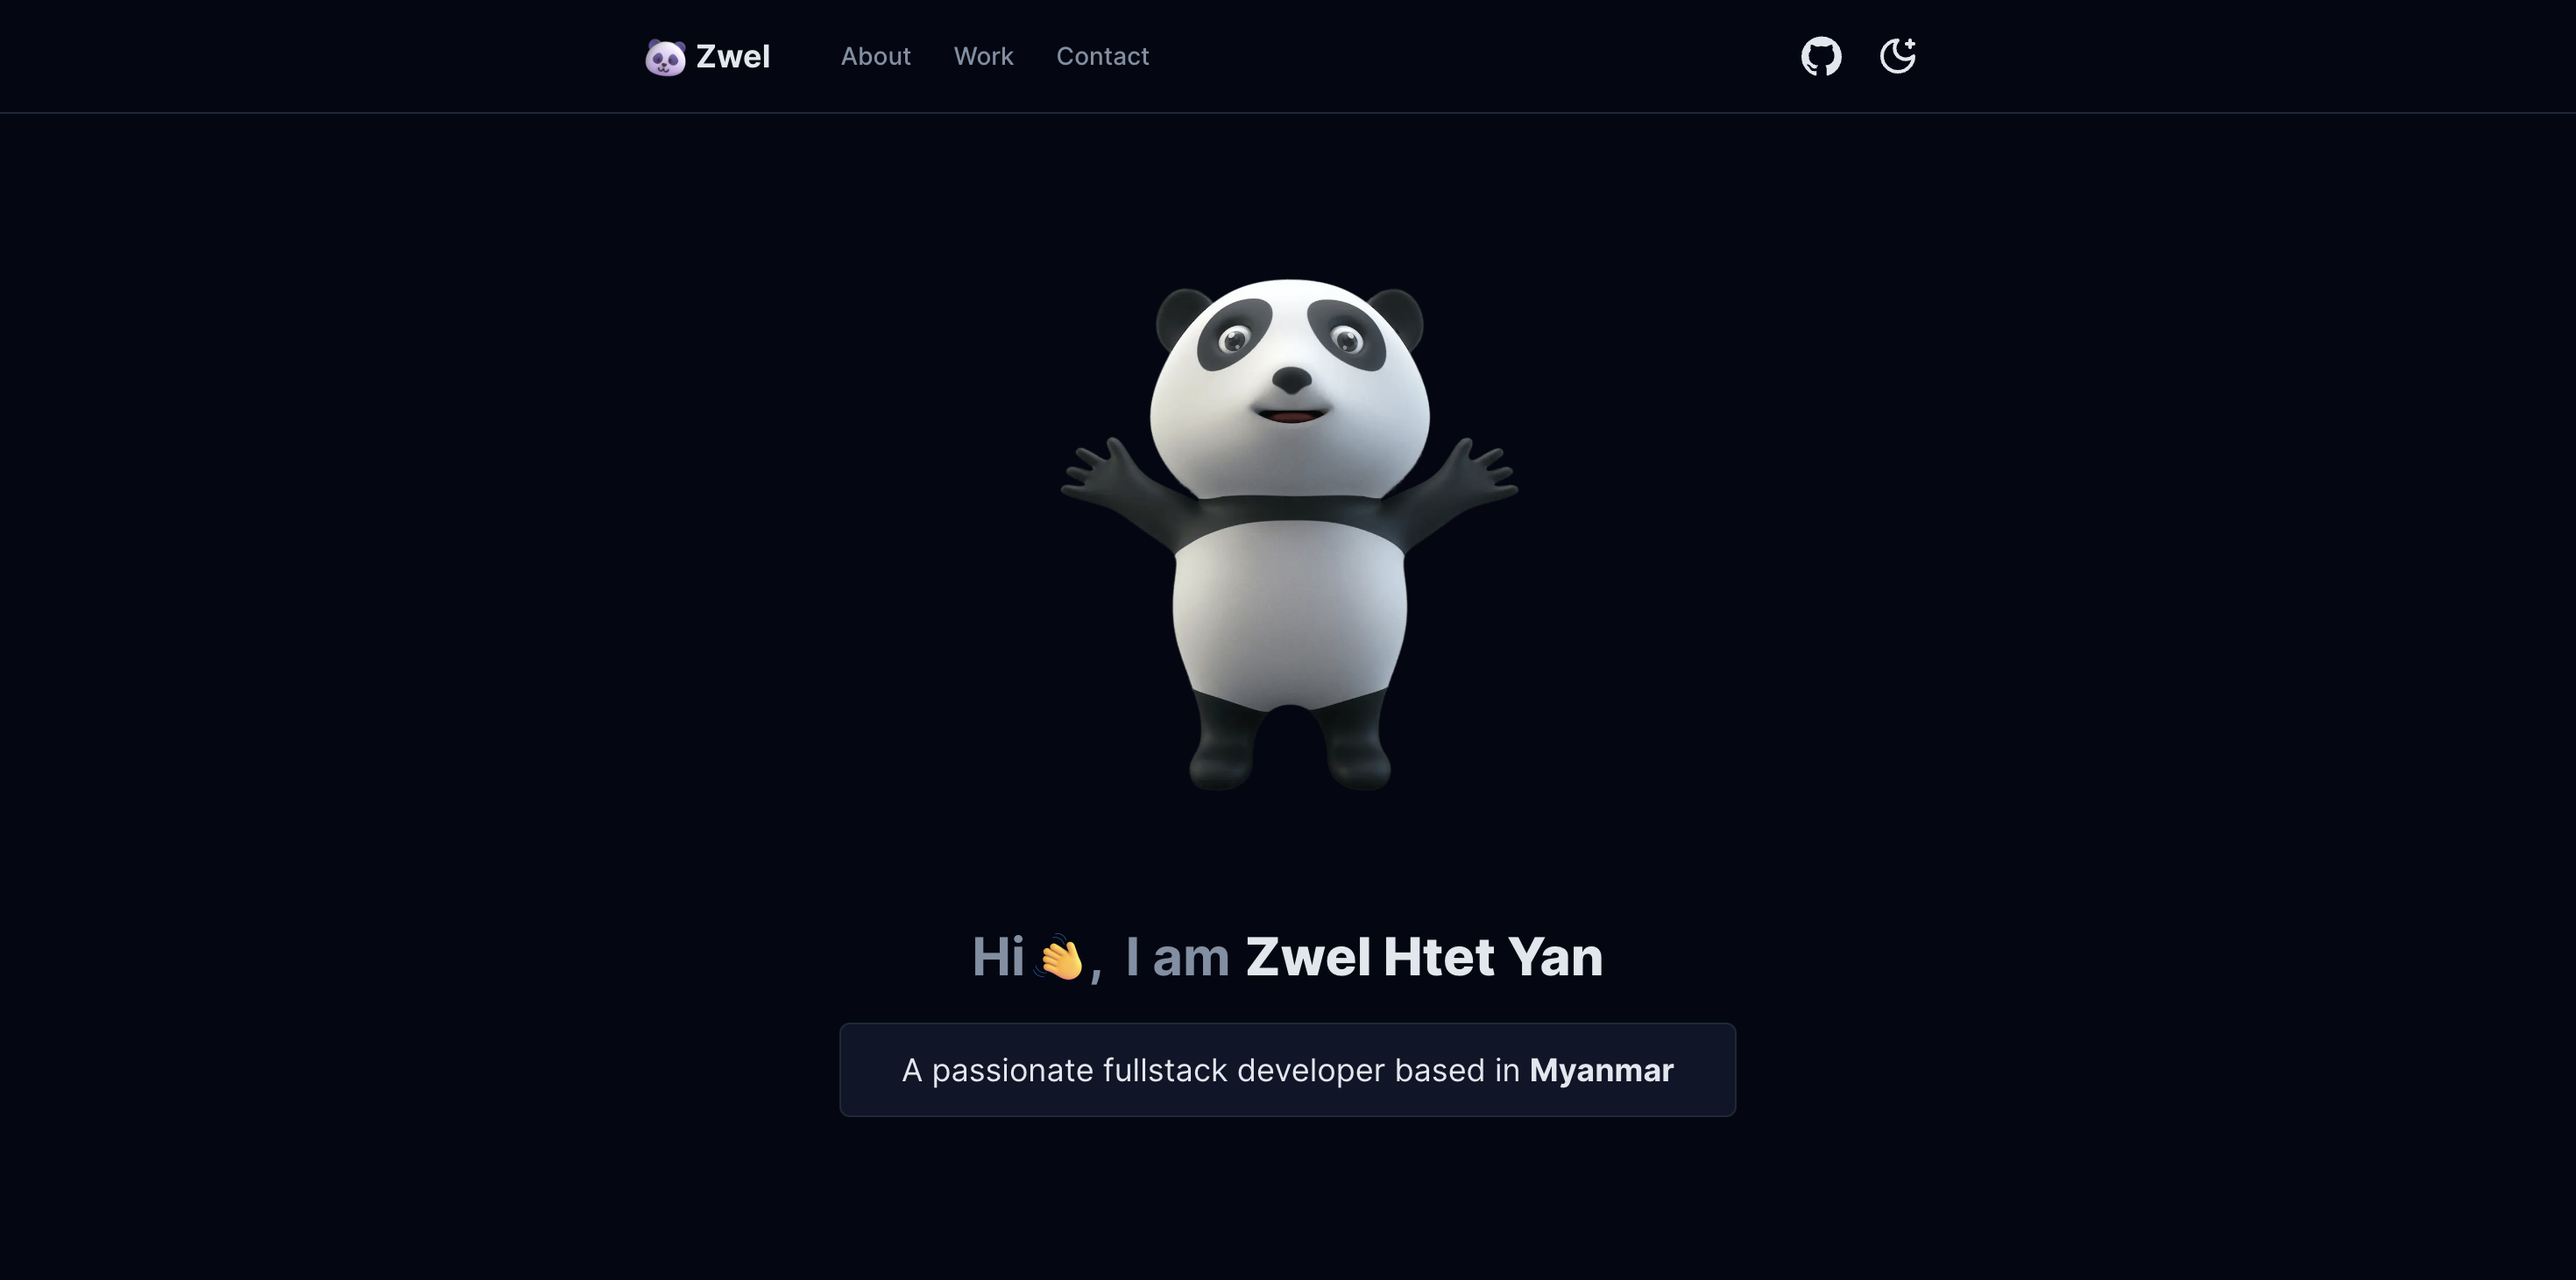
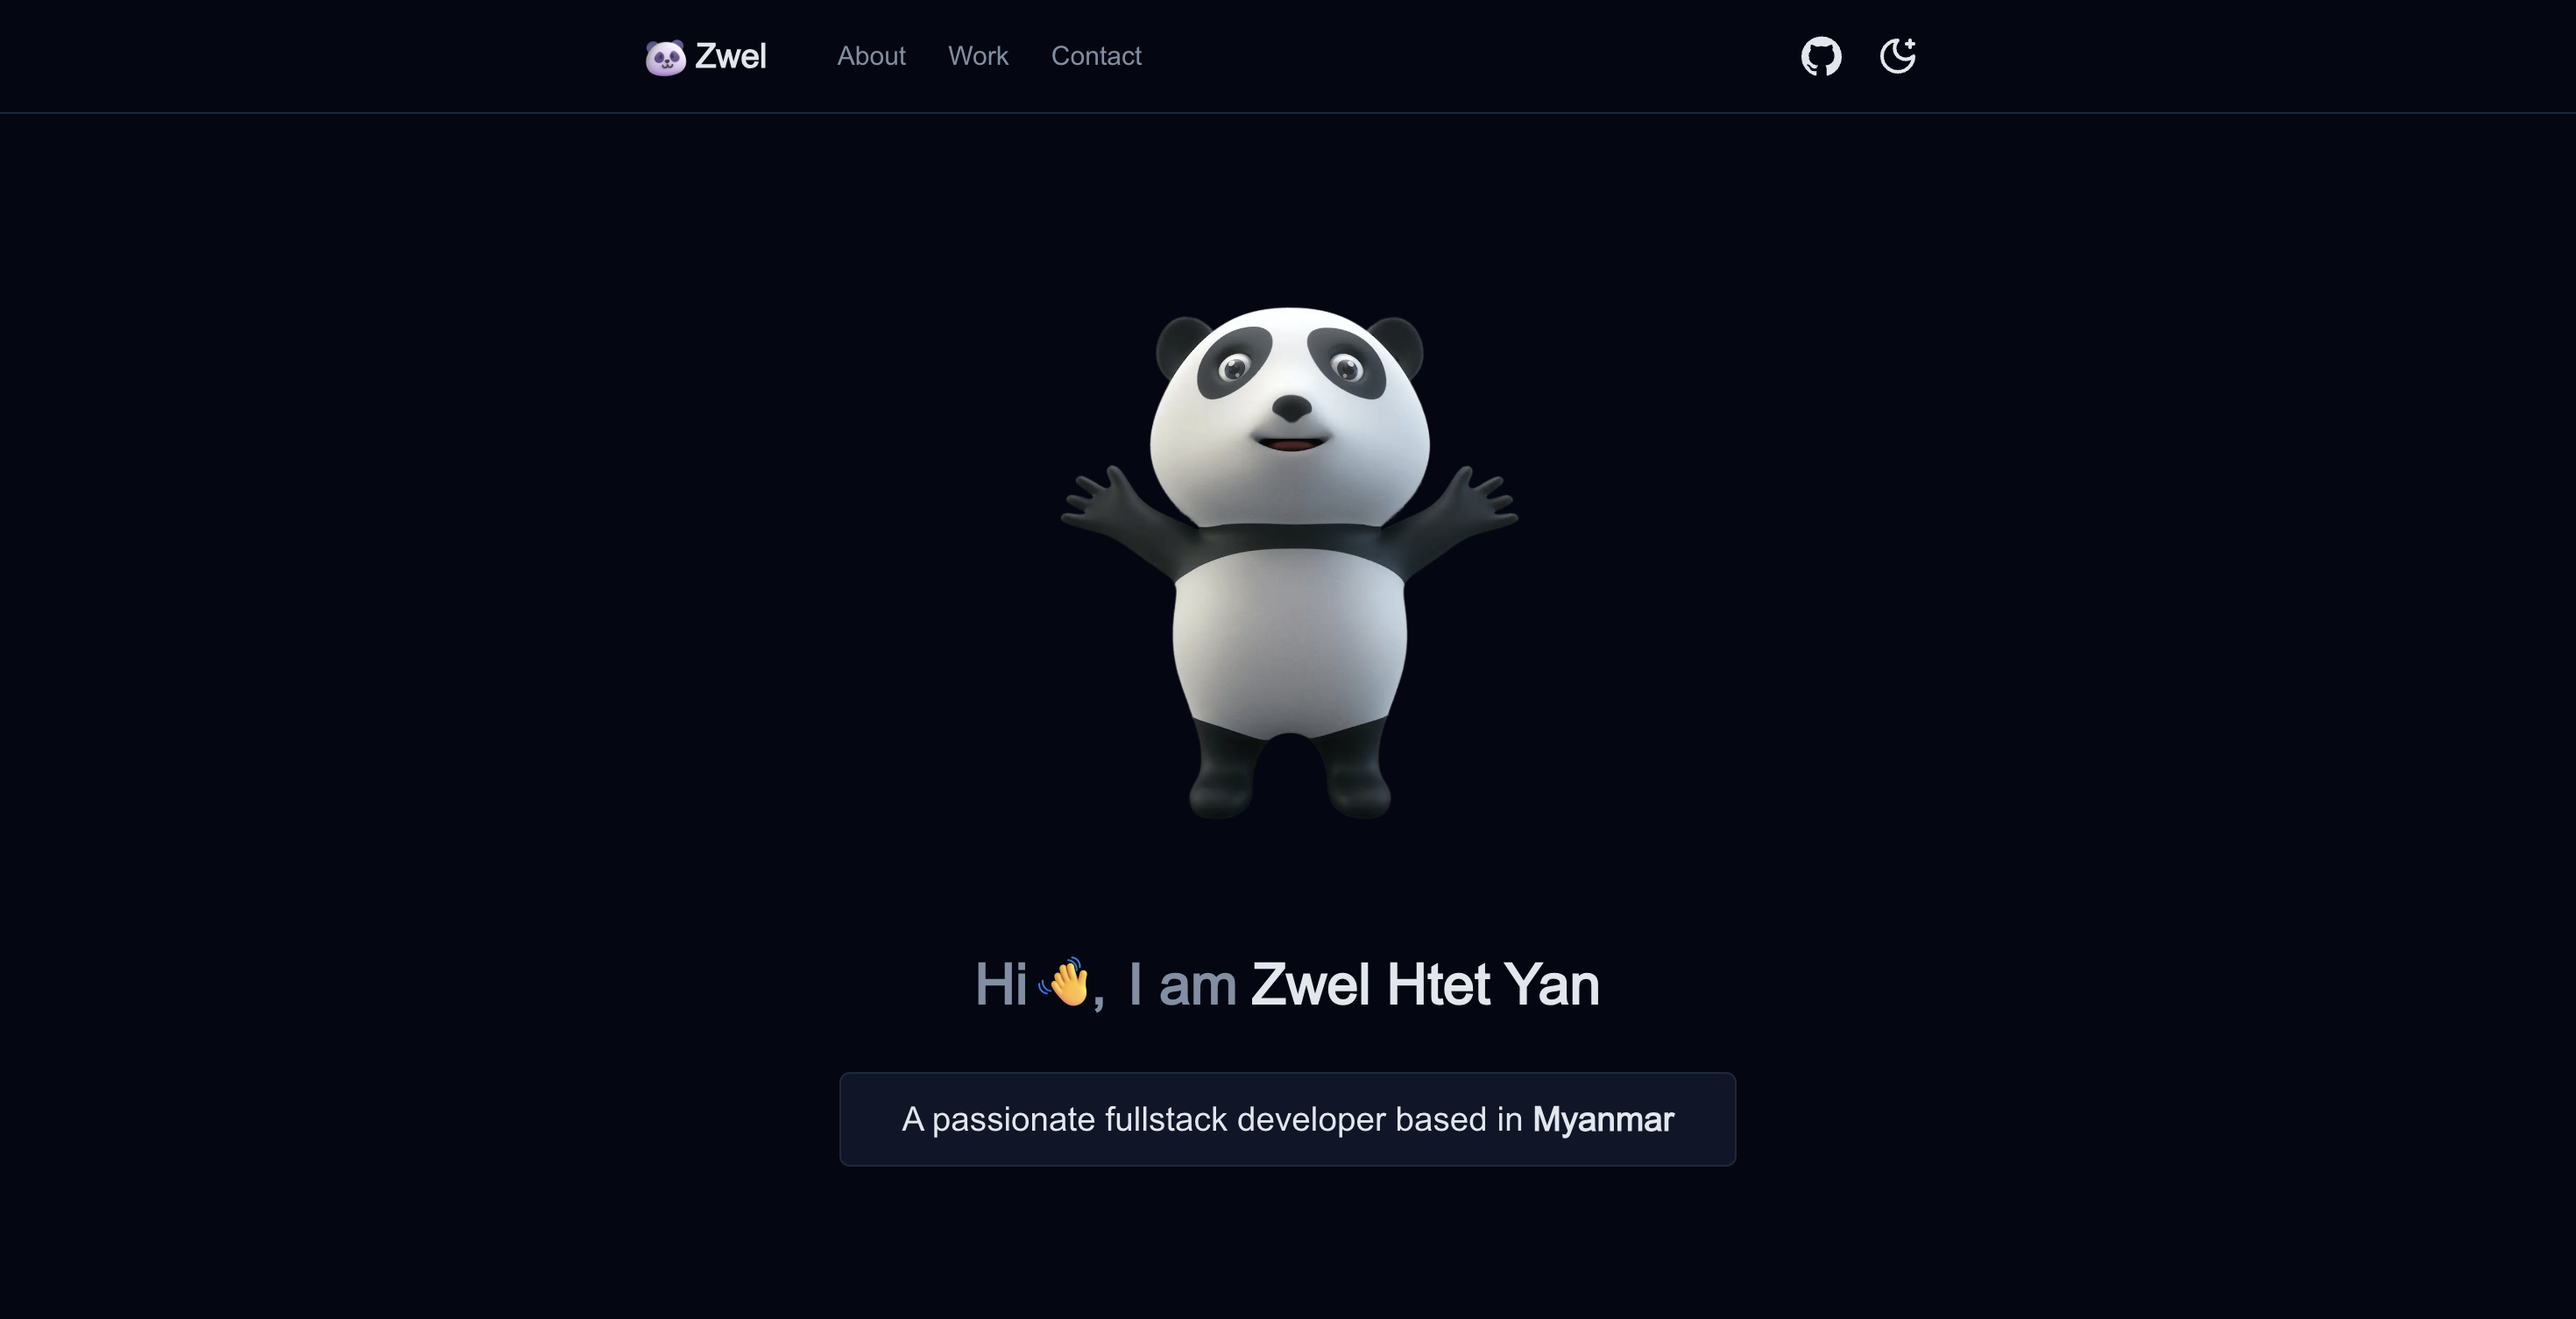
fix: some styles and typo

diff --git a/components/contact/index.tsx b/components/contact/index.tsx
@@ -15,7 +15,7 @@ export default function Contact() {
           target="_blank"
           rel="noreferrer"
           href={siteConfig.links.github}
-          className={buttonVariants({ variant: "outline" })}
+          className={buttonVariants({ variant: "secondary" })}
         >
           <Icons.gitHub className="mr-2 h-6 w-6" /> @zwelhtetyan
         </Link>
@@ -24,7 +24,7 @@ export default function Contact() {
           target="_blank"
           rel="noreferrer"
           href={siteConfig.links.linkedin}
-          className={buttonVariants({ variant: "outline" })}
+          className={buttonVariants({ variant: "secondary" })}
         >
           <Icons.linkedin className="mr-2 h-6 w-6" /> @zwelhtetyan
         </Link>
@@ -41,7 +41,7 @@ export default function Contact() {
         <Link
           target="_blank"
           href="mailto:zwelhtetyandev@gmail.com"
-          className={buttonVariants({ variant: "outline" })}
+          className={buttonVariants({ variant: "secondary" })}
         >
           <Icons.mail className="mr-2 h-5 w-5" /> Get in touch
         </Link>

diff --git a/components/hero/index.tsx b/components/hero/index.tsx
@@ -3,13 +3,13 @@ import { Icons } from "../icons";
 
 export default function Hero() {
   return (
-    <section className="mb-8 flex flex-col items-center pt-28 xs:pt-36">
+    <section className="mb-8 flex flex-col items-center pt-32 xs:pt-40">
       <Image
         src="/images/panda.png"
         alt="bear"
         width={500}
         height={500}
-        className="mb-16 w-64 xs:w-80"
+        className="mb-16 w-60 xs:w-80"
         priority
       />
 
@@ -24,7 +24,7 @@ export default function Hero() {
         </span>
       </h1>
 
-      <div className="mt-5 w-full max-w-lg rounded-md border bg-muted px-4 py-2 text-center xs:py-3 sm:text-lg">
+      <div className="mt-5 w-full max-w-lg rounded-md border bg-muted px-4 py-2 text-center xs:py-3 sm:mt-8 sm:text-lg">
         A passionate fullstack developer <br className="xs:hidden" /> based in{" "}
         <span className="font-bold">Myanmar</span>
       </div>

diff --git a/config/site-config/index.ts b/config/site-config/index.ts
@@ -8,7 +8,7 @@ export type SiteConfig = typeof siteConfig;
 
 export const siteConfig = {
   name: "Zwel",
-  title: "Zwel - A passionate full-stack developer",
+  title: "Zwel - A full-stack developer",
   url: envConfig.BASE_URL,
   description:
     "Zwel is a passionate full-stack developer based in Myanmar. He writes code to solve real-life challenges.",

diff --git a/app/page.tsx b/app/page.tsx
@@ -7,7 +7,7 @@ export default function IndexPage() {
       <About />
       <Projects />
       <Contact />
-      <p className="mt-16 text-center text-sm text-muted-foreground">
+      <p className="mt-16 text-center text-xs text-muted-foreground xs:text-sm">
         &#169; {new Date().getFullYear()} Zwel. All Rights Reserved.
       </p>
     </div>
